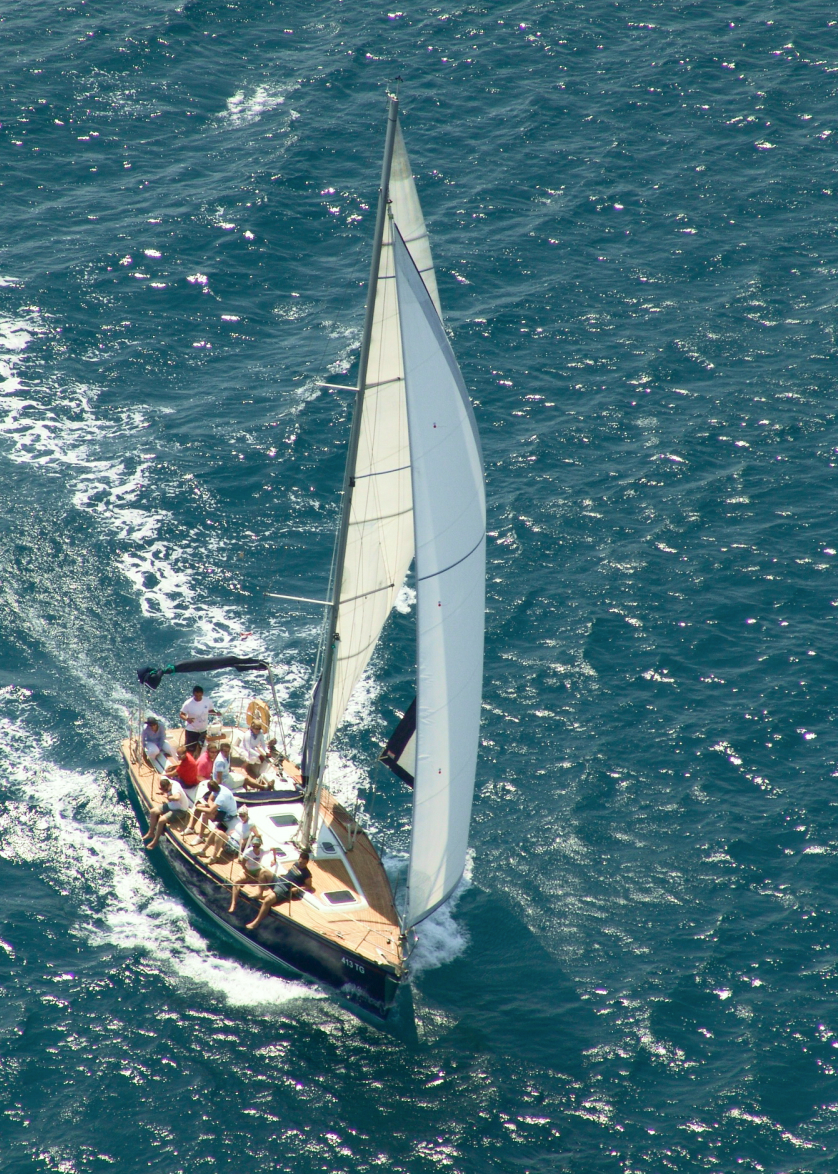
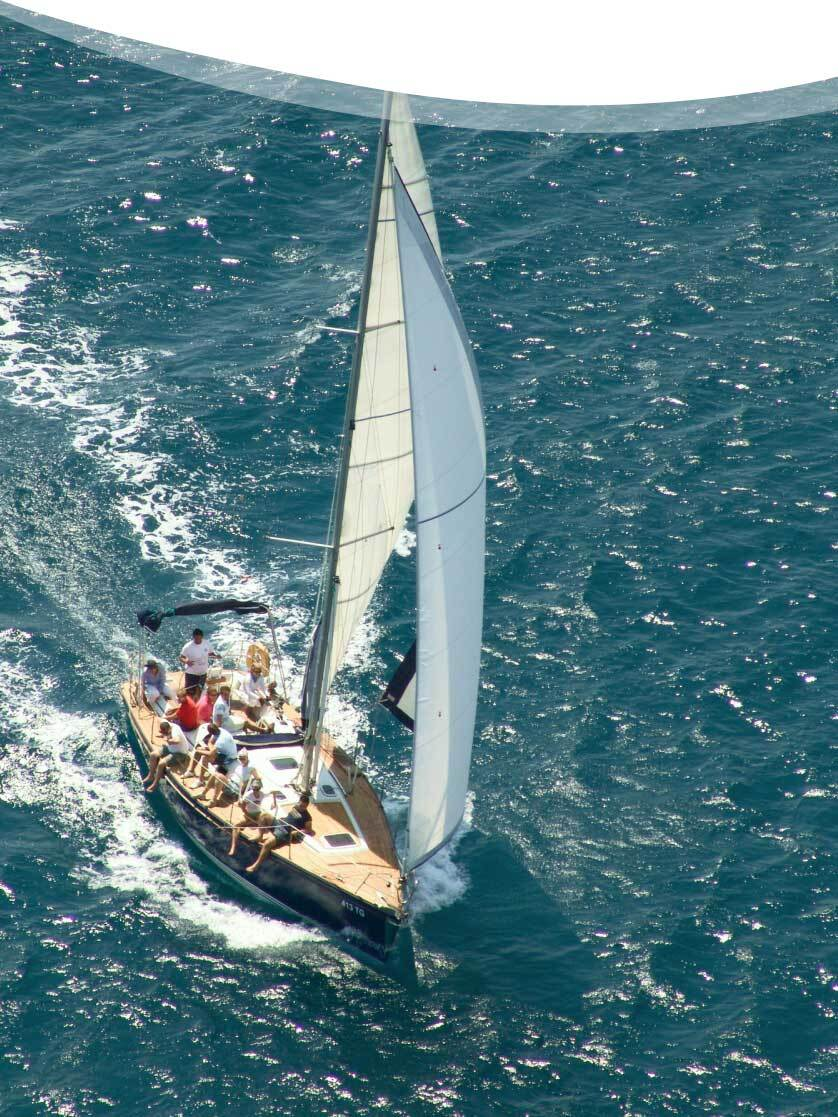
vsdv

diff --git a/components/QnA.vue b/components/QnA.vue
@@ -42,7 +42,10 @@
       class="hidden lg:block lg:w-3/5 h-69pic absolute -top-28 -mt-20"
       style="right: -9rem"
     >
-      <img src="/images/boat-qna.png" alt="Boat QnA" />
+   
+        <img src="/images/boat-qna.jpg" alt="Boat QnA" />
+ 
+      <!-- <img src="/images/boat-qna.webp" alt="Boat QnA" /> -->
       <img
         class="w-56 h-28 absolute z-30 -mt-32 hidden lg:block xl:bottom-24"
         src="/images/white-waves.svg"

diff --git a/components/my-waves/WaveTitle.vue b/components/my-waves/WaveTitle.vue
@@ -50,10 +50,7 @@
 </template> -->
 
 <template>
-  <div
-    class="my-wave absolute"
-    style="width: 100%; bottom: -9.5rem; left: -1rem"
-  >
+  <div class="my-wave absolute" style="width: 100%; bottom: -9rem; left: -1rem">
     <svg
       class="my-svg-wave"
       viewBox="0 0 2101 460"
